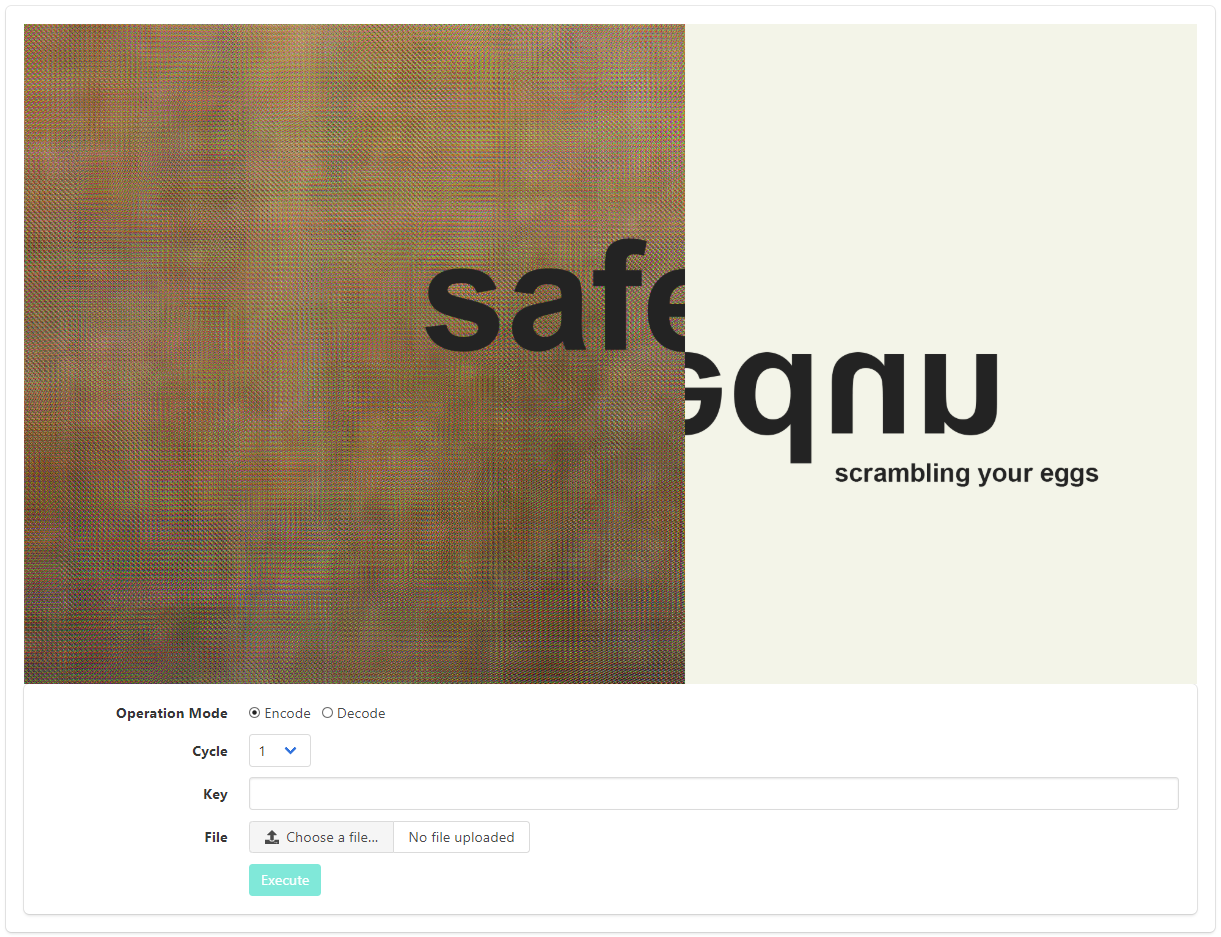
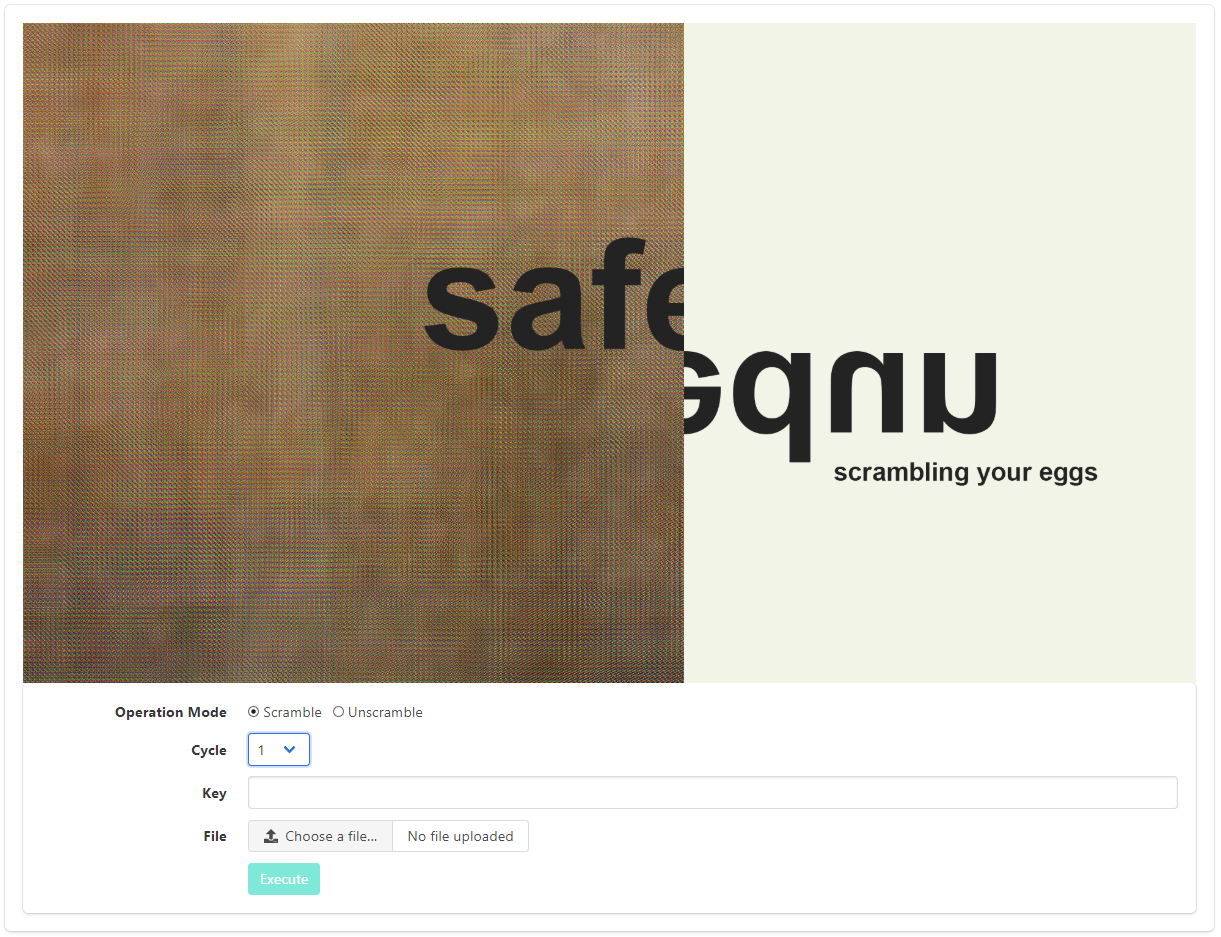
mode to scramble

diff --git a/templates/index.html b/templates/index.html
@@ -53,11 +53,11 @@
                   <div class="control">
                     <label class="radio">
                       <input type="radio" name="mode" value="encode" checked>
-                      Encode
+                      Scramble
                     </label>
                     <label class="radio">
                       <input type="radio" name="mode" value="decode">
-                      Decode
+                      Unscramble
                     </label>
                   </div>
                 </div>
